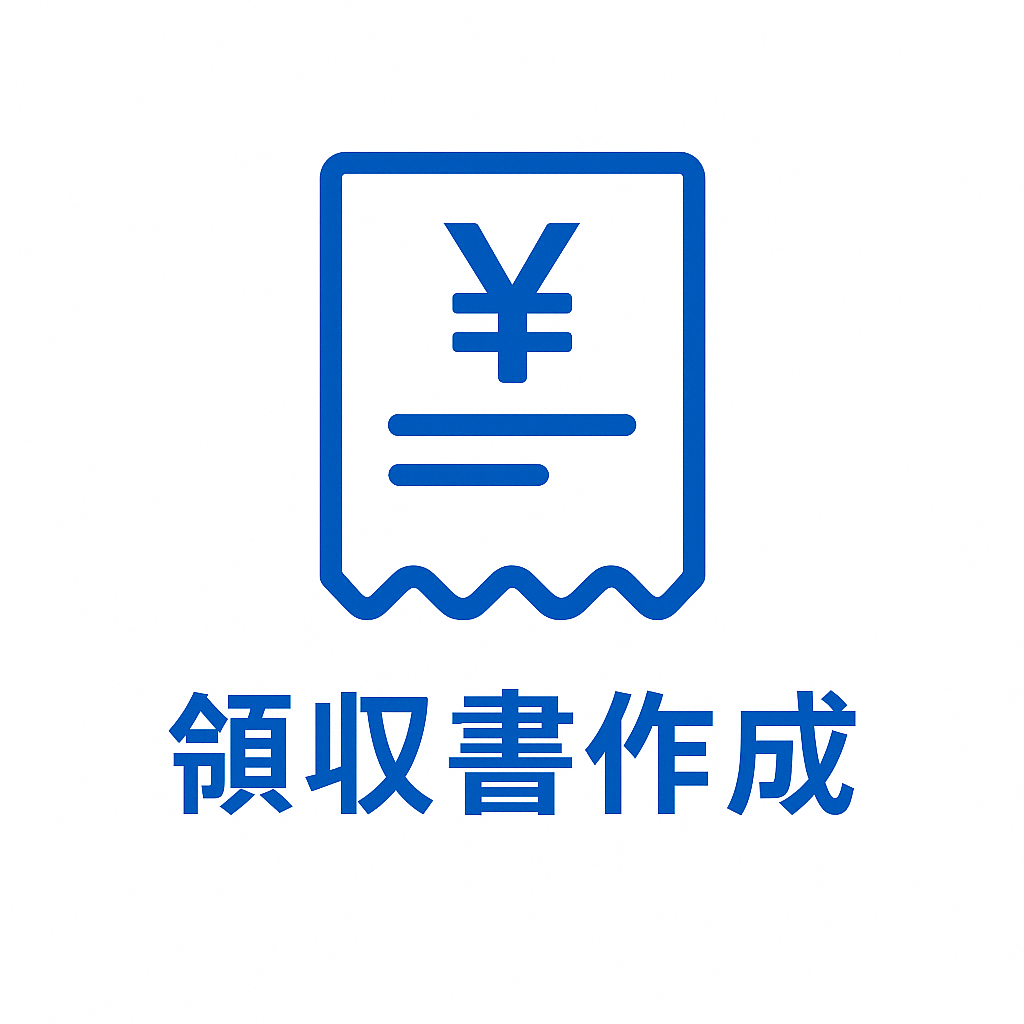
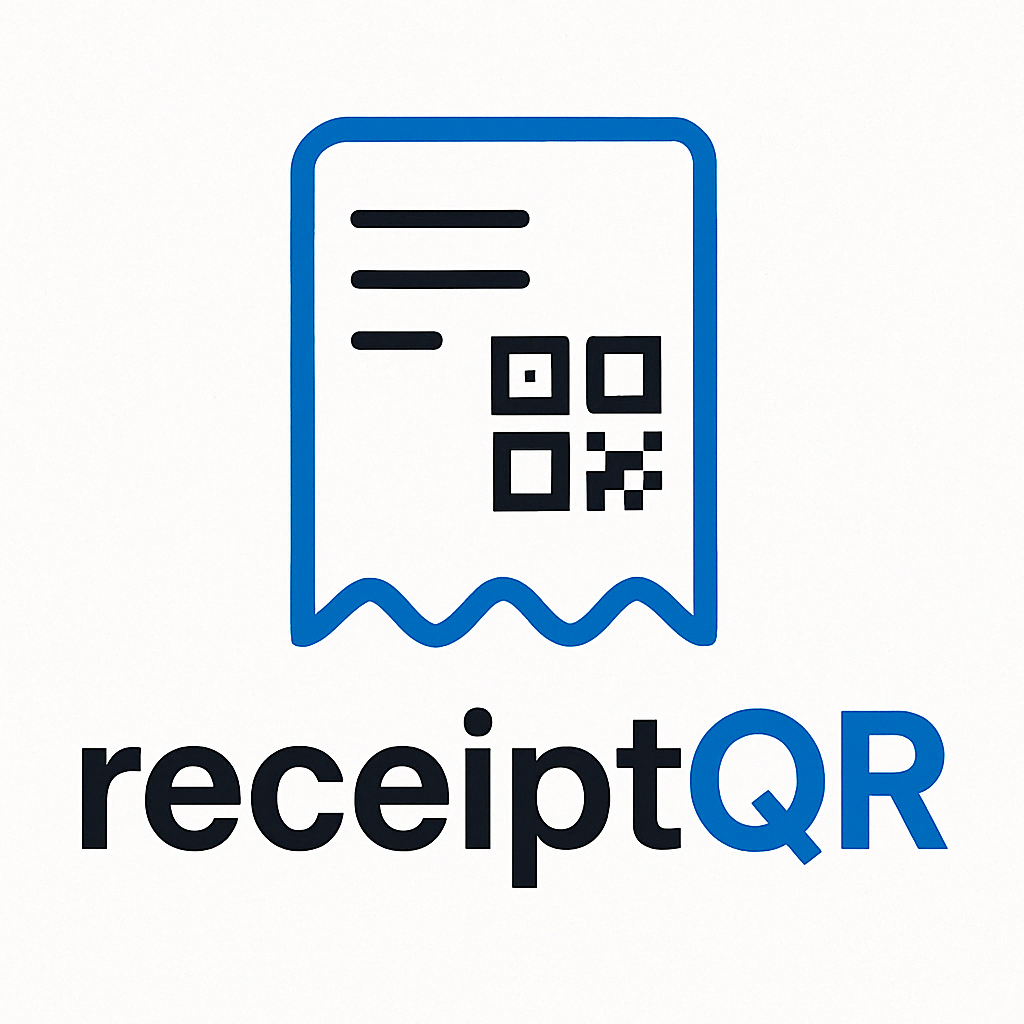
アプリ名変更

Changed region(s): [[0.0625, 0.0938, 0.9375, 0.875]]

diff --git a/app.config.js b/app.config.js
@@ -5,7 +5,7 @@ export default ({ config }) => {
     ...config,
     ...appJson.expo, // app.json の expo 設定をベースに
 
-    name: 'recipt_test',
+    name: 'receiptQR-領収書作成アプリ',
     slug: 'recipt_test',
     scheme: 'receiptmaker',
     icon: './assets/icon.png',
@@ -14,14 +14,14 @@ export default ({ config }) => {
       ...appJson.expo?.ios,
       bundleIdentifier: 'com.improvebiz.receiptmaker',
     },
-    "android": {
-      "package": "com.improvebiz.receiptmaker",
-      "versionCode": 1,
-      "adaptiveIcon": {
-        "foregroundImage": "./assets/icon.png",
-        "backgroundColor": "#FFFFFF"
+    android: {
+      package: "com.improvebiz.receiptmaker",
+      versionCode: 1,
+      adaptiveIcon: {
+        foregroundImage: "./assets/icon.png",
+        backgroundColor: "#FFFFFF"
       },
-      "permissions": []
+      permissions: []
     },
     splash: {
       image: './assets/icon.png',
@@ -35,6 +35,9 @@ export default ({ config }) => {
         {
           ios: {
             useModularHeaders: true,
+          },
+          android: {
+            kotlinVersion: '1.8.10',
           },
           experiments: {
             newArchEnabled: true,

diff --git a/scripts/styles.js b/scripts/styles.js
@@ -30,7 +30,13 @@ export default StyleSheet.create({
     alignItems: 'center',
     backgroundColor: '#fff',
   },
-
+  appName: {
+    fontSize: 28,
+    fontWeight: 'bold',
+    marginBottom: 10,
+    color: '#333',
+    textAlign: 'center',
+  },
   welcome: {
     fontSize: 20,
     marginBottom: 24,

diff --git a/app/(auth)/login.tsx b/app/(auth)/login.tsx
@@ -49,6 +49,7 @@ export default function LoginScreen() {
 
   return (
     <View style={styles.container}>
+      <Text style={styles.appName}>receiptQR</Text>
       <Text style={styles.title}>ログイン</Text>
 
       <TextInput
